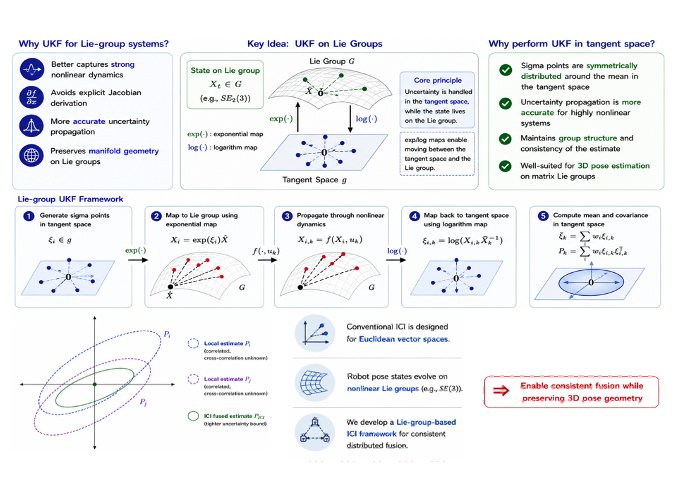
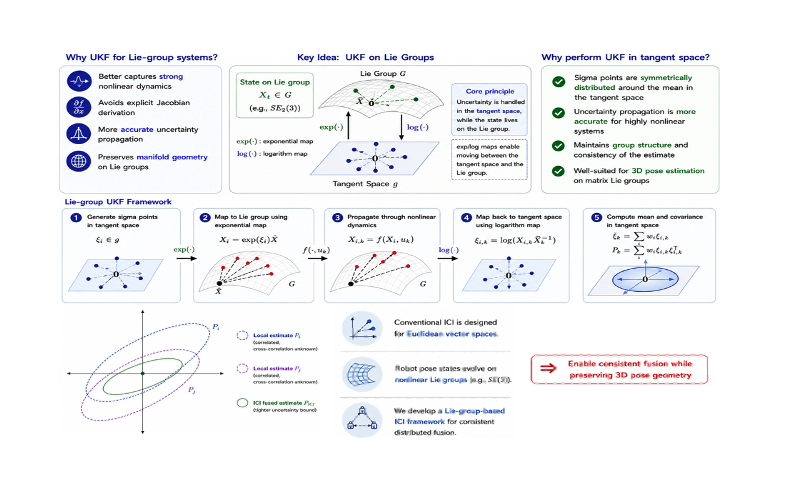
Cache-bust IUKF-ICI figure (v2)

Changed region(s): [[0.0, 0.0621, 0.9574, 0.8696], [0.4324, 0.7143, 0.9574, 0.9317]]

diff --git a/index.html b/index.html
@@ -99,7 +99,7 @@
             </article>
 
             <article class="rail-card media soft">
-              <img src="assets/proj_img/IUKF-ICI.png" alt="Distributed invariant unscented Kalman filter simulation preview" loading="lazy">
+              <img src="assets/proj_img/IUKF-ICI.png?v=2" alt="Distributed invariant unscented Kalman filter simulation preview" loading="lazy">
               <div>
                 <div class="card-head">
                   <h3><a class="research-title-link" href="https://arxiv.org/abs/2409.17997">Distributed Invariant Unscented Kalman Filter based on Inverse Covariance Intersection with Intermittent Measurements</a></h3>